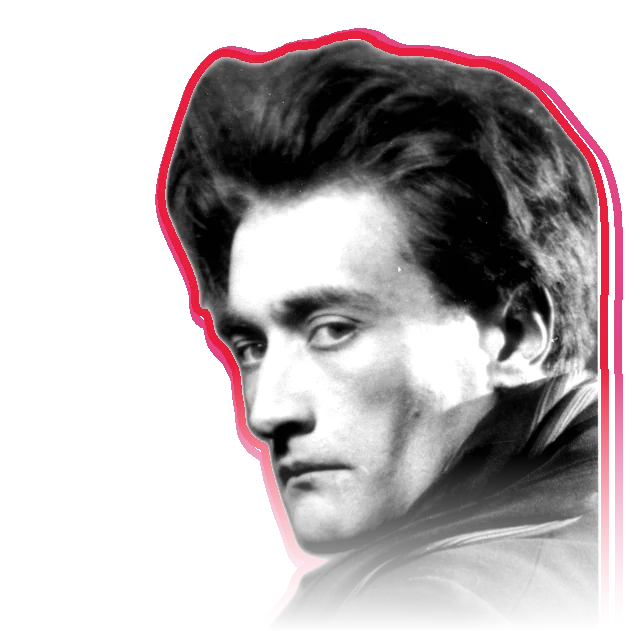
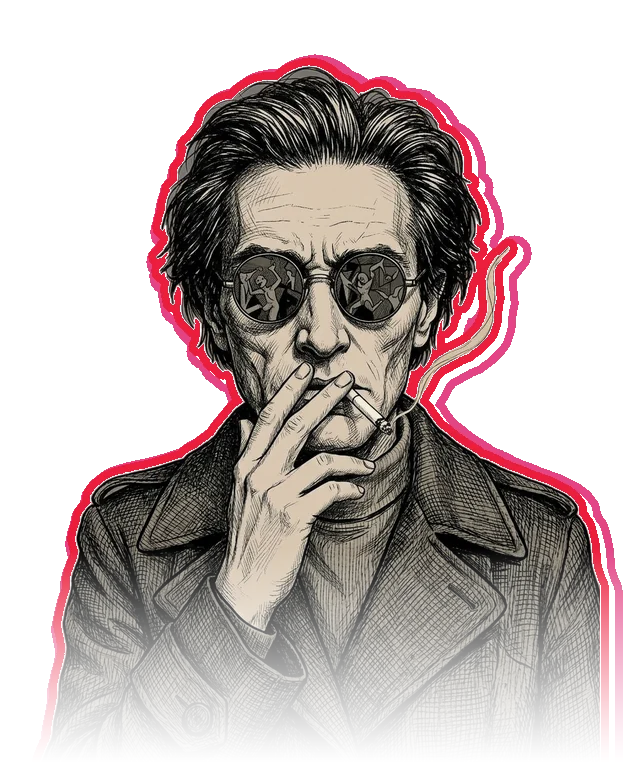
Ensaladas: ilustraciones nuevas de los poetas, descripción de Luis bajo cada poeta, título en Chelsea con 'contracultura' en Brick
Claude-Session: https://claude.ai/code/session_014MYiZw9DCFwXijDfbvyeKp

diff --git a/index.html b/index.html
@@ -127,15 +127,14 @@
 
     <!-- ENSALADAS: una carta por poeta, como la referencia de Luis (carrusel de perfiles). Todo gira junto al cambiar; el fondo es la esencia del poeta -->
     <section class="ensaladas" id="ensaladas" aria-labelledby="ensaladas-title" data-ensaladas data-vibra="pizarnik">
-      <h2 id="ensaladas-title" class="display ensaladas__titulo"><span>Ensaladas:</span> un homenaje a la contracultura</h2>
+      <h2 id="ensaladas-title" class="ensaladas__titulo">Nuestras ensaladas: un homenaje a la <span>contracultura</span></h2>
       <svg width="0" height="0" style="position:absolute" aria-hidden="true"><filter id="aerosol" x="-10%" y="-10%" width="120%" height="120%"><feTurbulence type="fractalNoise" baseFrequency=".9" numOctaves="2" seed="4" result="ruido"/><feDisplacementMap in="SourceGraphic" in2="ruido" scale="4" xChannelSelector="R" yChannelSelector="G" result="mov"/><feGaussianBlur in="mov" stdDeviation=".7"/></filter></svg>
       <div class="ensaladas__escena" data-escena tabindex="0" aria-roledescription="carrusel" aria-label="Ensaladas: desliza para cambiar">
         <div class="es__giro" data-giro>
         <article class="es" data-vibra="pizarnik" aria-roledescription="ensalada" aria-label="Ensalada Pizarnik">
-          <div class="es__poeta" style="--ar: 640 / 477"><img src="assets/img/poetas/pizarnik.webp" width="640" height="477" alt="" loading="lazy"><svg class="es__grafiti" viewBox="-40 -40 640 477" aria-hidden="true"><g class="es__trazos"><path class="r" d="M150 170 C 80 150, 30 190, 14 262 M14 262 l-8 -34 M14 262 l26 -22" pathLength="1"/><path class="r" d="M490 52 L495.4 64.6 L508 66.4 L498.1 74.5 L500.8 88 L490 79.9 L479.2 88 L481.9 74.5 L472 66.4 L484.6 64.6 Z" pathLength="1"/><path class="p" d="M112 28 L115.6 36.4 L124 37.6 L117.4 43.0 L119.2 52 L112 46.6 L104.8 52 L106.6 43.0 L100 37.6 L108.4 36.4 Z" pathLength="1"/><path class="r" d="M472 230 C446.4 214, 456 194.8, 472 207.6 C488 194.8, 497.6 214, 472 230 Z" pathLength="1"/></g><path id="arco-pizarnik" d="M90 330 C 40 -170, 560 -170, 510 330" fill="none"/><text class="es__escrito"><textPath href="#arco-pizarnik" startOffset="50%" text-anchor="middle">He dado el salto de mí al alba.</textPath></text></svg><p class="es__bio">Poeta argentina (1936–1972). Escribió desde la noche, el silencio y la locura, sin pedirle permiso a la poesía bien portada.</p></div>
+          <div class="es__poeta" style="--ar: 640 / 765"><img src="assets/img/poetas/pizarnik.webp" width="640" height="765" alt="" loading="lazy"><svg class="es__grafiti" viewBox="-40 -40 640 765" aria-hidden="true"><g class="es__trazos"><path class="r" d="M96 380 C 40 380, 4 420, -14 486 M-14 486 l-4 -32 M-14 486 l28 -18" pathLength="1"/><path class="p" d="M500 74 L504.8 85.2 L516 86.8 L507.2 94.0 L509.6 106 L500 98.8 L490.4 106 L492.8 94.0 L484 86.8 L495.2 85.2 Z" pathLength="1"/><path class="r" d="M30 214 C7.599999999999998 200, 16 183.2, 30 194.4 C44 183.2, 52.400000000000006 200, 30 214 Z" pathLength="1"/></g><path id="arco-pizarnik" d="M40 330 C 0 -190, 520 -190, 480 330" fill="none"/><text class="es__escrito"><textPath href="#arco-pizarnik" startOffset="50%" text-anchor="middle">He dado el salto de mí al alba.</textPath></text></svg><p class="es__bio">Es una ensalada predominantemente frutal, dulce y oscura por el uso de fresa, blueberry y zarzamora. Los frutos rojos y morados evocan los temas centrales de Alejandra: la noche, las sombras, la infancia perdida (el dulzor) y la sangre. El queso de cabra aporta una nota intensa, cremosa y ácida, reflejando su compleja y dolorosa vida interior.</p></div>
           <p class="es__nombre"><span>Alejandra</span> Pizarnik</p>
           <img class="es__plato" src="assets/img/ensaladas/pizarnik.webp" width="720" height="633" alt="Ensalada Pizarnik" loading="lazy">
-          <p class="es__desc">Es una ensalada predominantemente frutal, dulce y oscura por el uso de fresa, blueberry y zarzamora. Los frutos rojos y morados evocan los temas centrales de Alejandra: la noche, las sombras, la infancia perdida (el dulzor) y la sangre. El queso de cabra aporta una nota intensa, cremosa y ácida, reflejando su compleja y dolorosa vida interior.</p>
           <a class="es__chip es__pedir" href="https://laymonpizzeria.getjusto.com/pedir">Pide la Pizarnik <span aria-hidden="true">→</span></a>
           <span class="es__ings" aria-hidden="true">
             <img class="es__ing" src="assets/img/ingredientes/fresa.svg" width="72" height="72" alt="" style="--s:62px;--r:-16deg;--z:130px;--i:0">
@@ -154,10 +153,9 @@
           </span>
         </article>
         <article class="es" data-vibra="blake" aria-roledescription="ensalada" aria-label="Ensalada Blake">
-          <div class="es__poeta" style="--ar: 640 / 493"><img src="assets/img/poetas/blake.webp" width="640" height="493" alt="" loading="lazy"><svg class="es__grafiti" viewBox="-40 -40 640 493" aria-hidden="true"><g class="es__trazos"><path class="r" d="M168 210 C 110 220, 60 260, 34 318 M34 318 l-4 -34 M34 318 l28 -18" pathLength="1"/><path class="p" d="M96 136 L100.2 145.8 L110 147.2 L102.3 153.5 L104.4 164 L96 157.7 L87.6 164 L89.7 153.5 L82 147.2 L91.8 145.8 Z" pathLength="1"/><path class="r" d="M470 314 C447.6 300, 456 283.2, 470 294.4 C484 283.2, 492.4 300, 470 314 Z" pathLength="1"/></g><path id="arco-blake" d="M60 300 C 20 -170, 500 -170, 460 300" fill="none"/><text class="es__escrito" lang="en"><textPath href="#arco-blake" startOffset="50%" text-anchor="middle">Every thing that lives is holy.</textPath></text></svg><p class="es__bio">Poeta y grabador inglés (1757–1827). En vida lo tomaron por loco; inventó su propia mitología contra la Iglesia y la razón de su época. The Doors le deben el nombre.</p></div>
+          <div class="es__poeta" style="--ar: 640 / 765"><img src="assets/img/poetas/blake.webp" width="640" height="765" alt="" loading="lazy"><svg class="es__grafiti" viewBox="-40 -40 640 765" aria-hidden="true"><g class="es__trazos"><path class="r" d="M96 380 C 40 380, 4 420, -14 486 M-14 486 l-4 -32 M-14 486 l28 -18" pathLength="1"/><path class="p" d="M500 74 L504.8 85.2 L516 86.8 L507.2 94.0 L509.6 106 L500 98.8 L490.4 106 L492.8 94.0 L484 86.8 L495.2 85.2 Z" pathLength="1"/><path class="r" d="M30 214 C7.599999999999998 200, 16 183.2, 30 194.4 C44 183.2, 52.400000000000006 200, 30 214 Z" pathLength="1"/></g><path id="arco-blake" d="M40 330 C 0 -190, 520 -190, 480 330" fill="none"/><text class="es__escrito" lang="en"><textPath href="#arco-blake" startOffset="50%" text-anchor="middle">Every thing that lives is holy.</textPath></text></svg><p class="es__bio">Es la ensalada más ecléctica y luminosa. Combina frutas muy variadas (fresa, uva, manzana, piña) con pechuga ahumada. Esta mezcla de contrastes dulces, cítricos y ahumados representa las visiones místicas de Blake, la unión de los opuestos (el cielo y el infierno) y la exuberancia de la imaginación sin límites frente a la rigidez del mundo.</p></div>
           <p class="es__nombre"><span>William</span> Blake</p>
           <img class="es__plato" src="assets/img/ensaladas/blake.webp" width="720" height="580" alt="Ensalada Blake" loading="lazy">
-          <p class="es__desc">Es la ensalada más ecléctica y luminosa. Combina frutas muy variadas (fresa, uva, manzana, piña) con pechuga ahumada. Esta mezcla de contrastes dulces, cítricos y ahumados representa las visiones místicas de Blake, la unión de los opuestos (el cielo y el infierno) y la exuberancia de la imaginación sin límites frente a la rigidez del mundo.</p>
           <a class="es__chip es__pedir" href="https://laymonpizzeria.getjusto.com/pedir">Pide la Blake <span aria-hidden="true">→</span></a>
           <span class="es__ings" aria-hidden="true">
             <img class="es__ing" src="assets/img/ingredientes/pina.svg" width="72" height="72" alt="" style="--s:46px;--r:12deg;--z:60px;--i:0">
@@ -176,10 +174,9 @@
           </span>
         </article>
         <article class="es" data-vibra="artaud" aria-roledescription="ensalada" aria-label="Ensalada Artaud">
-          <div class="es__poeta" style="--ar: 640 / 631"><img src="assets/img/poetas/artaud.webp" width="640" height="631" alt="" loading="lazy"><svg class="es__grafiti" viewBox="-40 -40 640 631" aria-hidden="true"><g class="es__trazos"><path class="r" d="M190 300 C 120 300, 60 340, 26 404 M26 404 l-2 -34 M26 404 l30 -16" pathLength="1"/><path class="p" d="M80 140 l40 40 M120 140 l-40 40" pathLength="1"/><path class="r" d="M530 306 L534.2 315.8 L544 317.2 L536.3 323.5 L538.4 334 L530 327.7 L521.6 334 L523.7 323.5 L516 317.2 L525.8 315.8 Z" pathLength="1"/><path class="p" d="M110 264 C87.6 250, 96 233.2, 110 244.4 C124 233.2, 132.4 250, 110 264 Z" pathLength="1"/></g><path id="arco-artaud" d="M120 420 C 60 -230, 640 -230, 580 420" fill="none"/><text class="es__escrito"><textPath href="#arco-artaud" startOffset="50%" text-anchor="middle">Acabar con las obras maestras.</textPath></text></svg><p class="es__bio">Poeta y actor francés (1896–1948). Lo corrieron hasta de los surrealistas. Inventó el Teatro de la Crueldad y pasó nueve años en manicomios.</p></div>
+          <div class="es__poeta" style="--ar: 640 / 765"><img src="assets/img/poetas/artaud.webp" width="640" height="765" alt="" loading="lazy"><svg class="es__grafiti" viewBox="-40 -40 640 765" aria-hidden="true"><g class="es__trazos"><path class="r" d="M96 380 C 40 380, 4 420, -14 486 M-14 486 l-4 -32 M-14 486 l28 -18" pathLength="1"/><path class="p" d="M500 74 L504.8 85.2 L516 86.8 L507.2 94.0 L509.6 106 L500 98.8 L490.4 106 L492.8 94.0 L484 86.8 L495.2 85.2 Z" pathLength="1"/><path class="r" d="M30 214 C7.599999999999998 200, 16 183.2, 30 194.4 C44 183.2, 52.400000000000006 200, 30 214 Z" pathLength="1"/></g><path id="arco-artaud" d="M40 330 C 0 -190, 520 -190, 480 330" fill="none"/><text class="es__escrito"><textPath href="#arco-artaud" startOffset="50%" text-anchor="middle">Acabar con las obras maestras.</textPath></text></svg><p class="es__bio">Es, sin duda, la ensalada más transgresora e intensa por la inclusión de las coles de Bruselas. Las coles y la zanahoria aportan un carácter terrenal, crudo y un toque amargo. Esto conecta directamente con el Teatro de la Crueldad de Artaud: una experiencia que no busca ser puramente complaciente o «dulce», sino sacudirte el cuerpo con sabores fuertes y viscerales, suavizados apenas por el queso de cabra y el ahumado de la pechuga.</p></div>
           <p class="es__nombre"><span>Antonin</span> Artaud</p>
           <img class="es__plato" src="assets/img/ensaladas/artaud.webp" width="720" height="587" alt="Ensalada Artaud" loading="lazy">
-          <p class="es__desc">Es, sin duda, la ensalada más transgresora e intensa por la inclusión de las coles de Bruselas. Las coles y la zanahoria aportan un carácter terrenal, crudo y un toque amargo. Esto conecta directamente con el Teatro de la Crueldad de Artaud: una experiencia que no busca ser puramente complaciente o «dulce», sino sacudirte el cuerpo con sabores fuertes y viscerales, suavizados apenas por el queso de cabra y el ahumado de la pechuga.</p>
           <a class="es__chip es__pedir" href="https://laymonpizzeria.getjusto.com/pedir">Pide la Artaud <span aria-hidden="true">→</span></a>
           <span class="es__ings" aria-hidden="true">
             <img class="es__ing" src="assets/img/ingredientes/zanahoria.svg" width="72" height="72" alt="" style="--s:46px;--r:17deg;--z:30px;--i:0">

diff --git a/assets/css/main.css b/assets/css/main.css
@@ -432,9 +432,9 @@ a { color: inherit; }
   padding: clamp(48px, 6vw, 88px) 0 clamp(40px, 5vw, 64px);
 }
 
-.ensaladas__titulo { max-width: 1100px; margin: 0 auto; padding: 0 24px; text-align: center; }
-.ensaladas__titulo span { display: block; color: var(--ink); font-size: .55em; }
-.ensaladas__escena { position: relative; height: clamp(560px, 46vw, 680px); perspective: 1600px; outline: none; touch-action: pan-y; user-select: none; }
+.ensaladas__titulo { max-width: 1100px; margin: 0 auto; padding: 0 24px; text-align: center; color: var(--ink); font: 400 clamp(20px, 2.2vw, 30px)/1.2 var(--font-body); }
+.ensaladas__titulo span { display: block; color: var(--red); font: 400 clamp(56px, 8vw, 120px)/.9 var(--font-display); }
+.ensaladas__escena { position: relative; height: clamp(600px, 50vw, 740px); perspective: 1600px; outline: none; touch-action: pan-y; user-select: none; }
 .ensaladas__escena:focus-visible { outline: 3px solid currentColor; outline-offset: -6px; }
 
 /* Giro 360 de verdad: todo (carta, nombre, plato, fichas, emojis) vive en .es__giro y gira completo.
@@ -445,12 +445,12 @@ a { color: inherit; }
   translate: -50% -50%; transform-style: preserve-3d; visibility: hidden;
 }
 .es[data-pos="0"] { visibility: visible; }
-.es__poeta { position: absolute; left: 92%; bottom: -6%; height: 90%; aspect-ratio: var(--ar); transform: translateZ(20px); transform-style: preserve-3d; }
+.es__poeta { position: absolute; left: 90%; top: -32%; height: 86%; aspect-ratio: var(--ar); transform: translateZ(20px); transform-style: preserve-3d; }
 .es__poeta img { display: block; width: 100%; height: 100%; }
 /* Quién fue y por qué es contracultura: escrito en rosa sobre la foto */
 .es__bio {
-  position: absolute; left: -4%; top: 102%; width: 108%; margin: 0; rotate: -3deg; transform: translateZ(80px);
-  color: var(--rosa); font: 400 clamp(15px, 1.15vw, 17px)/1.4 var(--font-body);
+  position: absolute; left: -6%; top: 96%; width: 112%; margin: 0; rotate: -2deg; transform: translateZ(80px);
+  color: var(--rosa); font: 400 clamp(13px, .98vw, 15px)/1.42 var(--font-body);
 }
 .es[data-pos="0"] .es__bio { animation: es-aparece .5s steps(4) 1.5s backwards; }
 /* Grafiti de plumón en rojo y rosa Laymon encima del retrato (vandalismo de museo); se pinta al llegar */
@@ -479,11 +479,6 @@ a { color: inherit; }
 }
 .es__nombre span { display: block; margin-left: .1em; color: var(--ink); font-size: .32em; }
 .es__chip, .es__ing { position: absolute; }
-/* Por qué la ensalada es así (texto de Luis), debajo del nombre */
-.es__desc {
-  position: absolute; left: -42%; top: 26%; width: clamp(220px, 17vw, 270px); margin: 0; transform: translateZ(140px);
-  color: var(--ink); font-size: 15px; line-height: 1.45;
-}
 .es__chip {
   margin: 0; padding: 10px 14px; border-radius: 16px; background: #fff; color: var(--ink);
   font-size: 15px; line-height: 1.35; box-shadow: 0 12px 28px rgba(12, 11, 11, .25); transform: translateZ(150px);
@@ -522,27 +517,25 @@ a { color: inherit; }
 .ensaladas__puntos button:focus-visible { outline: 3px solid currentColor; outline-offset: 3px; }
 @media (min-width: 821px) and (max-width: 1100px) {
   .es { width: 440px; }
-  .es__poeta { left: 72%; bottom: 20%; height: 72%; }
+  .es__poeta { left: 84%; top: -30%; bottom: auto; height: 80%; }
   .es__nombre { left: -28%; font-size: 84px; }
   .es__pedir { left: 22%; }
-  .ensaladas__escena { height: 700px; }
-  .es { margin-top: -150px; }
-  .es__desc { left: -24%; top: 146%; width: 148%; font-size: 14px; column-count: 2; column-gap: 28px; }
-  .es__plato { left: 38%; width: 88%; }
-  .es__bio { left: 4%; top: 100%; width: 110%; }
+  .ensaladas__escena { height: 600px; }
+  .es { margin-top: -60px; }
+  .es__plato { left: 34%; width: 84%; }
+  .es__bio { left: -6%; top: 96%; width: 118%; font-size: 12.5px; }
   .es__ing:nth-child(6), .es__ing:nth-child(7) { display: none; }
 }
 /* Celular: carta vertical */
 @media (max-width: 820px) {
-  .ensaladas__escena { height: 1060px; }
-  .es { width: 240px; aspect-ratio: 2 / 3; margin-top: 20px; }
-  .es__poeta { left: 60%; bottom: auto; top: -78%; width: 100%; height: auto; translate: -50% 0; }
-  .es__bio { left: -30%; top: 100%; width: 140%; font-size: 13px; rotate: -2deg; }
+  .ensaladas__escena { height: 1010px; }
+  .es { width: 240px; aspect-ratio: 2 / 3; margin-top: 170px; }
+  .es__poeta { left: 56%; bottom: auto; top: -114%; width: 92%; height: auto; translate: -50% 0; }
+  .es__bio { left: -30%; top: 92%; width: 152%; font-size: 13px; rotate: -1.5deg; }
   .es__plato { left: 50%; top: 58%; width: 138%; }
-  .es__nombre { left: -14%; top: 12%; font-size: 64px; }
+  .es__nombre { left: -14%; top: 16%; font-size: 64px; }
   .es__chip { font-size: 13px; padding: 8px 11px; }
-  .es__pedir { left: 50%; top: 146%; translate: -50% 0; font-size: 16px; }
-  .es__desc { left: -20%; top: 96%; width: 140%; font-size: 14px; transform: none; }
+  .es__pedir { left: 50%; top: 98%; translate: -50% 0; font-size: 16px; }
   .es__ing { --t: calc(var(--s) * .9); }
   .es__ing:nth-child(1) { --x: -12%; --y: 56%; }
   .es__ing:nth-child(2) { --x: 92%; --y: 30%; }
